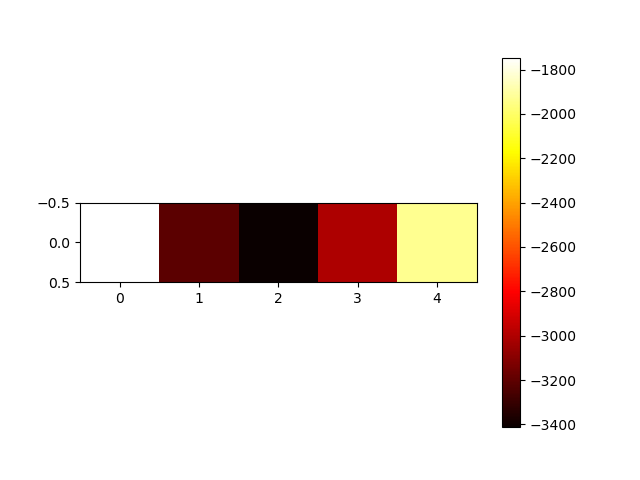
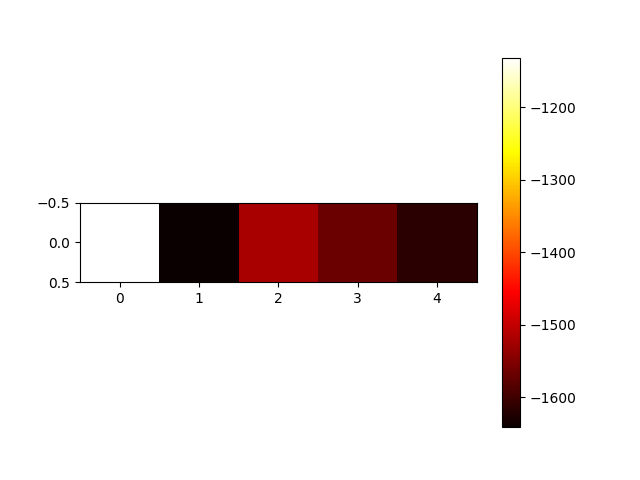
test

diff --git a/map_elites.py b/map_elites.py
@@ -5,17 +5,11 @@ import random
 from pettingzoo.utils import random_demo
 
 import custom_combined_arms
+from problem_params import ProblemParameters
 from environment_data import EnvironmentData
 
 LOG_DIRECTORY = "logs/"
-
-NUMBER_OF_EPISODES = 1
-NUMBER_OF_EPOCHS = 2
-
-# TODO: questi sono parametri dell'algoritmo, 
-#   vanno spostati nella classe e decisi nel main
-ALLOW_MUTATION = True
-ALLOW_CROSSOVER = True
+DEBUG = False
 
 class MAP_Elites: 
     def __init__(self, problem_parameters):
@@ -25,6 +19,13 @@ class MAP_Elites:
         self.num_dimensions = 1
         self.cells_in_grid = problem_parameters.cells_in_grid
         self.total_agents = problem_parameters.total_agents
+
+        #setting of problem parameters as self
+        self.allow_mutation = problem_parameters.allow_mutation
+        self.allow_crossover = problem_parameters.allow_crossover
+        self.number_of_episodes = problem_parameters.number_of_episodes
+        self.number_of_epochs = problem_parameters.number_of_epochs
+
         # range di valori per EnvironmentData,
         # dicono che non possiamo avere 51 melee se ci sono al max 
         # 50 unità totali per team
@@ -38,7 +39,8 @@ class MAP_Elites:
         # TODO: da espandere a più dimensioni (credo almeno due)
         self.solution_space_grid = np.empty(self.cells_in_grid, dtype=object)
 
-        print("--- Initializing grid...")
+        if DEBUG:
+            print("--- Initializing grid...")
         self.init_grid(problem_parameters)
 
     def init_grid(self, problem_parameters): 
@@ -54,7 +56,9 @@ class MAP_Elites:
         # nel nostro caso per adesso è un numero di epoche arbitrario (100)
         # TODO: aggiungere altri stopping criteria, 
         #   come ad esempio se nessuna soluzione migliora per un tot di epoche
-        print("--- Running MAP...")
+        if DEBUG:
+            print("--- Running MAP...")
+
         while not self.stopping_criteria_met():
             print(f"Running: {self.current_epoch}")
             # Select a cell in the grid based on some selection criteria
@@ -73,9 +77,10 @@ class MAP_Elites:
 
     def fitness_function(self, env_data):
         # execute environment with current ratio of melee and ranged units
-        print("Evaluating enviroment...")
+        if DEBUG:
+            print("Evaluating enviroment...")
         env = custom_combined_arms.env(env_data=env_data, render_mode='human')
-        fitness_score = random_demo(env, render=False, episodes=NUMBER_OF_EPISODES)
+        fitness_score = random_demo(env, render=False, episodes=self.number_of_episodes)
 
         return fitness_score
 
@@ -86,9 +91,9 @@ class MAP_Elites:
     def mutation_and_crossover(self, cell_index):
         env_data = self.solution_space_grid[cell_index][0]
         
-        if ALLOW_MUTATION:
+        if self.allow_mutation:
             env_data.mutate()
-        if ALLOW_CROSSOVER:
+        if self.allow_crossover:
             other_cell_index = self.select_cell()
             other_env_data = self.solution_space_grid[other_cell_index][0]
             env_data.crossover(other_env_data)
@@ -97,7 +102,7 @@ class MAP_Elites:
 
     def stopping_criteria_met(self):
         # Check if stopping criteria met
-        return self.current_epoch > NUMBER_OF_EPOCHS
+        return self.current_epoch > self.number_of_epochs
     
     def get_best_solutions(self):
         # Select the best solutions from each cell in the grid

diff --git a/custom_combined_arms.py b/custom_combined_arms.py
@@ -81,6 +81,7 @@ def get_config(
     attack_opponent_reward,
 ):
     # TODO: usa env_data
+
     gw = magent2.gridworld
     cfg = gw.Config()
 
@@ -229,8 +230,8 @@ def generate_map(env, map_size, handles):
     for x, y in pos[0] + pos[1]:
         if not (0 < x < width - 1 and 0 < y < height - 1):
             assert False
-    env.add_agents(handles[0], method="custom", pos=pos[0])
-    env.add_agents(handles[1], method="custom", pos=pos[1])
+    env.add_agents(handles[0], method="random", n=10)
+    env.add_agents(handles[1], method="random", n=10)
 
     # right
     n = init_num
@@ -249,8 +250,8 @@ def generate_map(env, map_size, handles):
     for x, y in pos[0] + pos[1]:
         if not (0 < x < width - 1 and 0 < y < height - 1):
             assert False
-    env.add_agents(handles[2], method="custom", pos=pos[0])
-    env.add_agents(handles[3], method="custom", pos=pos[1])
+    env.add_agents(handles[2], method="random", n=10)
+    env.add_agents(handles[3], method="random", n=10)
 
 
 class _parallel_env(magent_parallel_env, EzPickle):

diff --git a/problem_params.py b/problem_params.py
@@ -5,3 +5,7 @@ class ProblemParameters:
         self.total_agents = 100
         self.agent_classes = 2
         self.cells_in_grid = 5
+        self.allow_mutation = True
+        self.allow_crossover = True
+        self.number_of_episodes = 1
+        self.number_of_epochs = 2

diff --git a/main.py b/main.py
@@ -3,7 +3,7 @@ from map_elites import MAP_Elites
 from problem_params import ProblemParameters
 import os
 
-NO_DISPLAY = True
+NO_DISPLAY = False
 
 def main(): 
     if NO_DISPLAY: 

diff --git a/README.md b/README.md
@@ -13,11 +13,11 @@ Boh
 - [x] capire se si possono passare tutti i parametri alla funzione env
 - [ ] fare la parte dell'enviroment
 - [x] passare parametri della simulazione in una sola classe
-- [ ] spostare consts e metterle come parametri dell'algoritmo, vanno spostati nella classe e decisi nel main
+- [x] spostare consts e metterle come parametri dell'algoritmo, vanno spostati nella classe e decisi nel main
 - [ ] espandere a più dimensioni (credo almeno due)
 - [ ] funzioni di mutation e crossover in environment_data.py
 - [x] inizializzazione di EnvironmentData in base ai parametri passati
-- [ ] fare in modo che MAP_Elites non stampi sempre tutto tutto
+- [x] fare in modo che MAP_Elites non stampi sempre tutto tutto
 - [ ] magari si puù fare più di un algoritmo... non sembra così tanto lavoro
 
 
